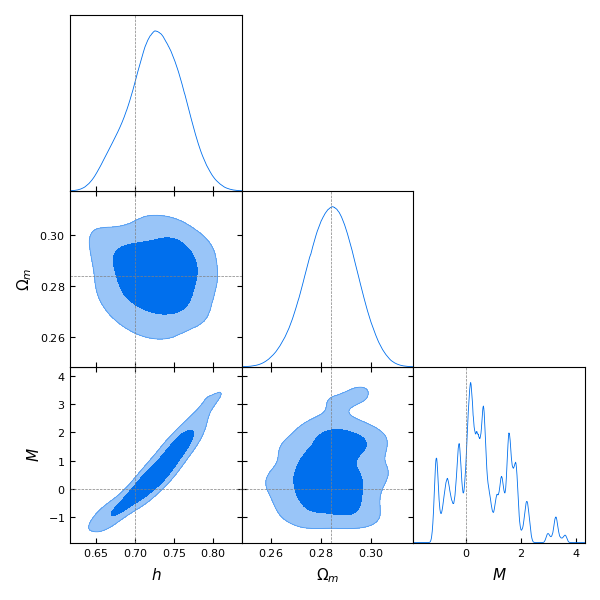
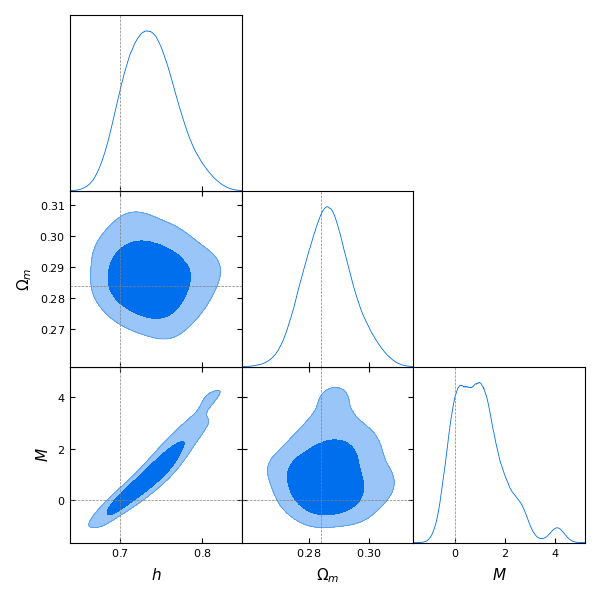
chain output working with compression

diff --git a/ezmc.py b/ezmc.py
@@ -10,6 +10,7 @@ import argparse
 import getdist
 import pandas
 import stan
+import h5py
 import yaml
 import os
 
@@ -77,7 +78,7 @@ def load(yml, names, labels, initial, markers, samples, warmup, chains):
 
 
 # main
-def main(model, data, yml, names, labels, initial, markers, samples, warmup, chains, output, savechain, gzip, lsf, thin, noshow):
+def main(model, data, yml, names, labels, initial, markers, samples, warmup, chains, output, savesamples, savewarmup, savechain, gzip, lzf, noshow):
     # prepare the output folder
     if output != None and output[-1] != "/":
         output += "/"
@@ -125,11 +126,6 @@ def main(model, data, yml, names, labels, initial, markers, samples, warmup, cha
     #summary = az.summary(fit)
     #print(summary)
 
-    # save the chain
-    if savechain:
-        dummie = 1
-        # to-do (hdf5, gzip, lsf, thin)
-
     # plot the time series
     fig, axes = plt.subplots(len(names), figsize=(10, 7), sharex=True)
     steps = np.arange(samples+warmup)
@@ -150,10 +146,12 @@ def main(model, data, yml, names, labels, initial, markers, samples, warmup, cha
         plt.show()
     plt.close()
 
-    # plot the corner plot
+    # get the samples without warmup in a single numpy array
     samples = fit[names[0]][0][chains*warmup:]
     for i in range(1, len(names)):
         samples = np.column_stack((samples, fit[names[i]][0][chains*warmup:]))
+
+    # plot the corner plot
     mcsamples = MCSamples(samples=samples, names=names, labels=labels)
     g = plots.get_subplot_plotter()
     g.triangle_plot(mcsamples, filled=True, markers=markers)
@@ -172,6 +170,18 @@ def main(model, data, yml, names, labels, initial, markers, samples, warmup, cha
     if not noshow:
         print(mcsamples.getTable(limit=1).tableTex())
         print(mcsamples.getTable().tableTex())
+
+    # save the chain
+    if savechain:
+        # to-do: savewarmup, savechain
+        # isto da bue combinacoes possiveis pahhhhh
+        with h5py.File(output + "chain.h5", "w") as file:
+            if gzip:
+                dataset = file.create_dataset("chain", data=samples, compression="gzip", compression_opts=gzip, dtype="f")
+            elif lzf:
+                dataset = file.create_dataset("chain", data=samples, compression="lzf", dtype="f")
+            else:
+                dataset = file.create_dataset("chain", data=samples, dtype="f")
 
     return
 
@@ -207,10 +217,11 @@ if __name__ == "__main__":
 
     # output the results (to-do: implementar)
     output.add_argument("-o", "--output", type=str, help="Output folder to save the results. Warning: will overwrite existing files.")
-    output.add_argument("-sc", "--savechain", action="store_true", help="Saves the chain to a .hd5 file in the output folder.")
-    output.add_argument("-g", "--gzip", type=int, help="Compress the chain with GZIP. Optionally specify the compression level with an integer from 0 (fast) to 9 (slow). Default is 4.")
-    output.add_argument("-l", "--lsf", action="store_true", help="Compress the chain with LSF.")
-    output.add_argument("-t", "--thin", type=int, help="A positive integer specifying the period for saving samples. The default is 1, which is usually the recommended value, unless your posterior takes too much memory.")
+    output.add_argument("-ss", "--save-samples", action="store_true", help="Saves the samples to chain.hd5 in the output folder.")
+    output.add_argument("-sw", "--save-warmup", action="store_true", help="Saves the warmup steps to the chain.")
+    output.add_argument("-sc", "--save-chain", action="store_true", help="Saves the chain(s) information to the file. This saves each chain in a different datasets instead of condensing it all into one.")
+    output.add_argument("-g", "--gzip", type=int, help="Compress the chain with GZIP. Optionally specify the compression level with an integer from 0 (fast) to 9 (slow). Recommended value is 4. Good compression, moderate speed.")
+    output.add_argument("-l", "--lzf", action="store_true", help="Compress the chain with LZF. Low to moderate compression, very fast.")
     output.add_argument("-n", "--noshow", action="store_true", help="Don't show plots in the screen.")
 
     # add help to its own subsection
@@ -229,10 +240,11 @@ if __name__ == "__main__":
     warmup = args.warmup
     chains = args.chains
     output = args.output
-    savechain = args.savechain
+    savesamples = args.save_samples
+    savewarmup = args.save_warmup
+    savechain = args.save_chain
     gzip = args.gzip
-    lsf = args.lsf
-    thin = args.thin
+    lzf = args.lzf
     noshow = args.noshow
 
     # check if output is provided if noshow is toggled
@@ -240,4 +252,4 @@ if __name__ == "__main__":
         raise Exception("Toggling -n, --noshow requires to provide an output folder, otherwise output will not be shown nor saved.")
 
     # call main with the provided arguments
-    main(model, data, yml, names, labels, initial, markers, samples, warmup, chains, output, savechain, gzip, lsf, thin, noshow)
+    main(model, data, yml, names, labels, initial, markers, samples, warmup, chains, output, savesamples, savewarmup, savechain, gzip, lzf, noshow)

diff --git a/output/teste/1sigma.tex b/output/teste/1sigma.tex
@@ -2,10 +2,10 @@
 
  Parameter &  68\% limits\\
 \hline
-{\boldmath$h              $} & $0.726^{+0.038}_{-0.031}   $\\
+{\boldmath$h              $} & $0.737^{+0.029}_{-0.036}   $\\
 
-{\boldmath$\Omega_m       $} & $0.2841\pm 0.0098          $\\
+{\boldmath$\Omega_m       $} & $0.2864^{+0.0074}_{-0.0087}$\\
 
-{\boldmath$M              $} & $0.6^{+1.3}_{-1.7}         $\\
+{\boldmath$M              $} & $0.98^{+0.60}_{-1.2}       $\\
 \hline
 \end{tabular}

diff --git a/output/teste/2sigma.tex b/output/teste/2sigma.tex
@@ -2,10 +2,10 @@
 
  Parameter &  95\% limits\\
 \hline
-{\boldmath$h              $} & $0.726^{+0.064}_{-0.069}   $\\
+{\boldmath$h              $} & $0.737^{+0.065}_{-0.060}   $\\
 
-{\boldmath$\Omega_m       $} & $0.284^{+0.019}_{-0.019}   $\\
+{\boldmath$\Omega_m       $} & $0.286^{+0.017}_{-0.015}   $\\
 
-{\boldmath$M              $} & $0.6^{+2.7}_{-1.8}         $\\
+{\boldmath$M              $} & $0.98^{+2.0}_{-1.7}        $\\
 \hline
 \end{tabular}
